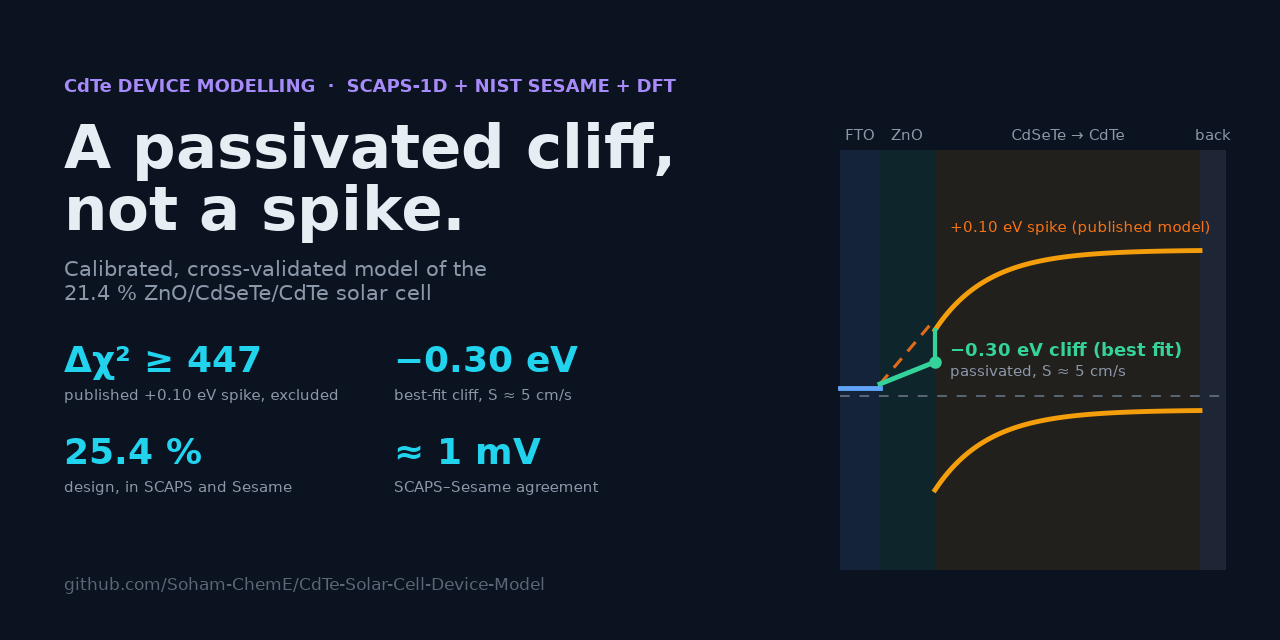
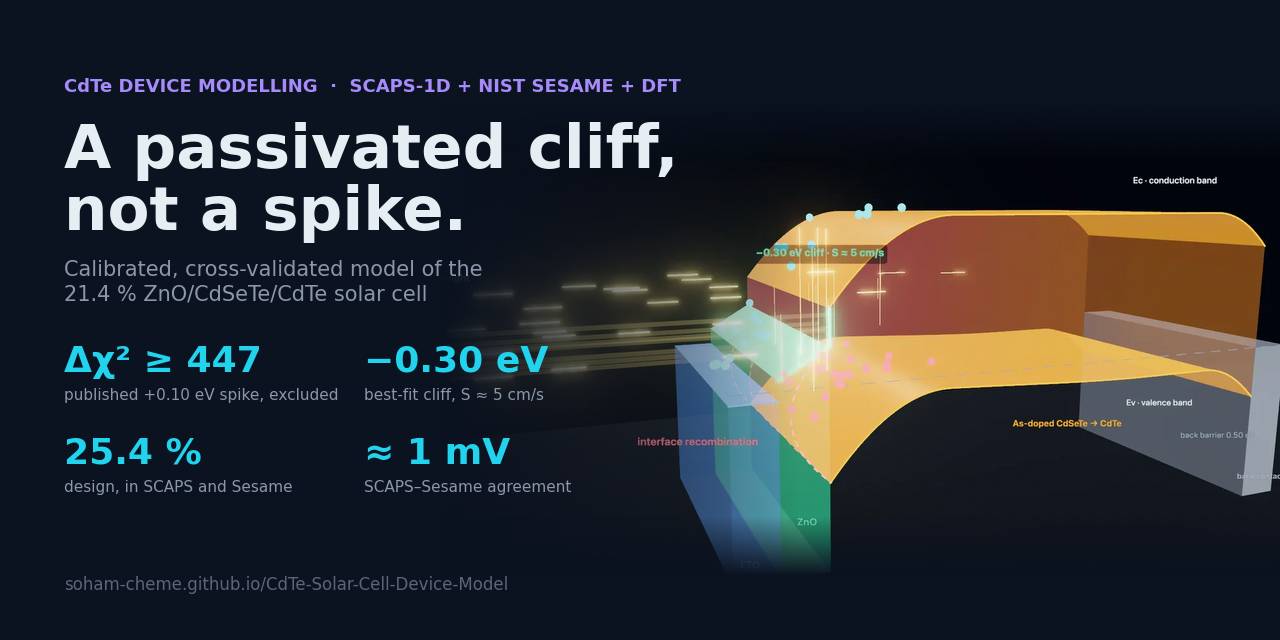
QA: hero renders for the no-WebGL path, both-theme screenshots at 1440 and 375 px, static-path checks; social preview with the new hero
docs/page_qa.py renders assets/hero_dark.webp and hero_light.webp, writes the
screenshots and qa.json to docs/qa/ (no console errors, no failed requests, no
horizontal overflow in either theme or width) and checks the reduced-motion and
software-renderer paths. build_assets.py places the hero render in the social
preview.

diff --git a/docs/page_qa.py b/docs/page_qa.py
@@ -1,0 +1,174 @@
+#!/usr/bin/env python3
+"""Renders and QA for the live page (Playwright for Python, headless Chromium).
+
+  python docs/page_qa.py [--hero] [--qa] [--static] [--lighthouse]
+
+  --hero        assets/hero_dark.webp and assets/hero_light.webp: the hero canvas alone at its final keyframe (the cliff), the
+                static image shown when WebGL is missing or software-rendered; docs/build_assets.py embeds the dark one in
+                the social preview
+  --qa          screenshots in both themes at 1440 px (hero at three scroll positions and every body scene) and 375 px (hero and
+                three scenes) into qa/<theme>/, plus console errors, failed requests and horizontal overflow, to qa/qa.json
+  --static      the reduced-motion path in both themes: every scene must show its static figure (F1-F7), to qa/<theme>/
+  --lighthouse  desktop Lighthouse run (needs the lighthouse CLI on PATH), report to qa/lighthouse.report.{html,json}
+
+Serves docs/ on a local port and loads it with software WebGL and window.__forceGL set, so the live scenes render rather
+than the static path (frame timing is therefore not representative). Port of page-qa.mjs / page_qa.py in the sibling
+project pages."""
+from __future__ import annotations
+
+import argparse
+import http.server
+import json
+import shutil
+import socketserver
+import subprocess
+import threading
+import time
+from functools import partial
+from pathlib import Path
+
+ap = argparse.ArgumentParser()
+for f in ("--hero", "--qa", "--static", "--lighthouse"):
+    ap.add_argument(f, action="store_true")
+A = ap.parse_args()
+DOCS = Path(__file__).resolve().parent
+
+
+class Quiet(http.server.SimpleHTTPRequestHandler):
+    def log_message(self, *a):
+        pass
+
+    def end_headers(self):
+        self.send_header("cache-control", "no-cache")
+        super().end_headers()
+
+
+srv = socketserver.TCPServer(("127.0.0.1", 0), partial(Quiet, directory=str(DOCS)))
+PORT = srv.server_address[1]
+threading.Thread(target=srv.serve_forever, daemon=True).start()
+BASE = f"http://127.0.0.1:{PORT}/index.html"
+
+from playwright.sync_api import sync_playwright  # noqa: E402
+
+QA = DOCS / "qa"
+report = {"pages": {"index.html": {}}}
+SCENES = ["vocT", "cliff", "valley", "fluct", "zno", "design", "solvers", "znse"]
+
+
+def open_page(browser, theme, w, h, reduced=False, force=True):
+    ctx = browser.new_context(viewport={"width": w, "height": h}, device_scale_factor=2 if w < 500 else 1,
+                              reduced_motion="reduce" if reduced else "no-preference", color_scheme=theme)
+    ctx.add_init_script(("window.__forceGL = true; " if force else "") + f"try {{ localStorage.setItem('theme', '{theme}'); }} catch (e) {{}}")
+    page = ctx.new_page()
+    errors, failed = [], []
+    page.on("console", lambda m: errors.append(m.text) if m.type == "error" else None)
+    page.on("pageerror", lambda e: errors.append(str(e)))
+    page.on("requestfailed", lambda r: failed.append(r.url))
+    page.on("response", lambda r: failed.append(f"{r.status} {r.url}") if r.status >= 400 else None)
+    page.goto(BASE, wait_until="networkidle")
+    page.wait_for_function("() => window.SITE && window.SITE.ready")
+    time.sleep(2.0)
+    return ctx, page, errors, failed
+
+
+def hero_to(page, T):
+    page.evaluate("""T => { const tr = document.querySelector('.hero-track'); const y = (tr.offsetHeight - innerHeight) * T;
+      if (window.SITE.lenis) window.SITE.lenis.scrollTo(y, { immediate: true, force: true }); window.scrollTo(0, y); if (window.ScrollTrigger) ScrollTrigger.update(); }""", T)
+    time.sleep(3.0)
+
+
+def scene_to(page, name):
+    page.evaluate("""s => { const el = document.querySelector(s); const r = el.getBoundingClientRect(); const y = r.top + scrollY - (innerHeight - r.height) / 2;
+      if (window.SITE.lenis) window.SITE.lenis.scrollTo(y, { immediate: true, force: true }); window.scrollTo(0, y); if (window.ScrollTrigger) ScrollTrigger.update();
+      document.querySelectorAll('.reveal').forEach(e => e.classList.add('in')); }""", f'[data-viz="{name}"]')
+    time.sleep(1.0)
+    page.evaluate("() => window.__viz && window.__viz.force(1)")
+    time.sleep(2.6)
+
+
+with sync_playwright() as pw:
+    browser = pw.chromium.launch(args=["--use-gl=angle", "--use-angle=swiftshader", "--enable-unsafe-swiftshader", "--ignore-gpu-blocklist"])
+    if A.hero:
+        for theme in ("dark", "light"):
+            ctx, page, errors, _ = open_page(browser, theme, 1600, 900)
+            page.evaluate("""() => { if (window.SITE.heroTimeline) window.SITE.heroTimeline.scrollTrigger.kill(); window.SITE.hero.t = 1;
+              document.querySelectorAll('nav, .hero .copy, .hero .readout, .hero .shade, .phases, .hlegend, .cliffcall, .scrollhint, .stats').forEach(e => e.style.visibility = 'hidden'); }""")
+            time.sleep(9.0)
+            page.query_selector("#heroCanvas").screenshot(path=str(DOCS / "assets" / f"hero_{theme}.png"), timeout=180000)
+            print("hero", theme, "errors:", errors)
+            ctx.close()
+        for theme in ("dark", "light"):  # WebP keeps the bloom gradients without banding at a small size
+            try:
+                from PIL import Image
+                p = DOCS / "assets" / f"hero_{theme}.png"
+                Image.open(p).convert("RGB").resize((1280, 720), Image.LANCZOS).save(p.with_suffix(".webp"), quality=80, method=6)
+                p.unlink()
+            except Exception as e:  # noqa: BLE001
+                print("quantise skipped:", e)
+    if A.qa:
+        for theme in ("dark", "light"):
+            qd = QA / theme
+            qd.mkdir(parents=True, exist_ok=True)
+            ctx, page, errors, failed = open_page(browser, theme, 1440, 900)
+            for T in (0, .3, 1):
+                hero_to(page, T)
+                page.screenshot(path=str(qd / f"index-hero-t{int(T * 100):03d}.png"), timeout=180000)
+            for k, name in enumerate(SCENES, 1):
+                scene_to(page, name)
+                page.screenshot(path=str(qd / f"index-scene{k}-{name}.png"), timeout=180000)
+            over = page.evaluate("() => document.documentElement.scrollWidth - document.documentElement.clientWidth")
+            built = page.evaluate("() => window.__viz ? window.__viz.views.map(v => v.name + ':' + (v.builds || 0)) : []")
+            nbytes = page.evaluate("() => performance.getEntriesByType('resource').reduce((a, r) => a + (r.transferSize || r.encodedBodySize || 0), 0) + (performance.getEntriesByType('navigation')[0]?.transferSize || 0)")
+            ctx.close()
+            mctx, mpage, merr, mfail = open_page(browser, theme, 375, 812)
+            for T in (0, 1):
+                hero_to(mpage, T)
+                mpage.screenshot(path=str(qd / f"index-mobile-375-hero-t{int(T * 100):03d}.png"), timeout=180000)
+            for name in ("cliff", "fluct", "design"):
+                scene_to(mpage, name)
+                mpage.screenshot(path=str(qd / f"index-mobile-375-{name}.png"), timeout=180000)
+            mover = mpage.evaluate("() => document.documentElement.scrollWidth - document.documentElement.clientWidth")
+            mctx.close()
+            report["pages"]["index.html"][theme] = {"errors": errors, "failed": failed, "overflowPx1440": over, "scenesBuilt": built,
+                                                    "transferBytes": nbytes, "mobileErrors": merr, "mobileFailed": mfail, "overflowPx375": mover}
+            print("qa", theme, json.dumps(report["pages"]["index.html"][theme]))
+    if A.static:
+        for theme in ("dark", "light"):
+            qd = QA / theme
+            qd.mkdir(parents=True, exist_ok=True)
+            ctx, page, errors, failed = open_page(browser, theme, 1440, 900, reduced=True)
+            page.screenshot(path=str(qd / "index-reduced-motion-hero.png"), timeout=180000)
+            imgs = page.evaluate("() => [...document.querySelectorAll('.viz img.fallback')].map(i => ({ src: (i.getAttribute('src') || '').split('/').pop(), visible: getComputedStyle(i).opacity }))")
+            page.evaluate("() => document.querySelector('[data-viz=\"design\"]').scrollIntoView({ block: 'center' })")
+            time.sleep(1.5)
+            page.screenshot(path=str(qd / "index-reduced-motion-design.png"), timeout=180000)
+            ctx.close()
+            sctx, spage, serr, sfail = open_page(browser, theme, 1440, 900, force=False)  # software GL without the QA override: static path
+            soft = spage.evaluate("() => ({ softGL: window.SITE.softGL, hero: document.querySelector('.hero').className, img: document.querySelector('.hero .fallback').getAttribute('src') })")
+            spage.screenshot(path=str(qd / "index-software-gl-hero.png"), timeout=180000)
+            sctx.close()
+            report["pages"]["index.html"].setdefault(theme, {}).update({"reducedMotionFigures": imgs, "reducedErrors": errors, "reducedFailed": failed,
+                                                                        "softwareGL": soft, "softErrors": serr, "softFailed": sfail})
+            print("static", theme, json.dumps(imgs), json.dumps(soft), serr, sfail)
+    if A.lighthouse:
+        lh = shutil.which("lighthouse")
+        if not lh:
+            print("lighthouse CLI not on PATH; skipped")
+        else:
+            out = QA / "lighthouse"
+            subprocess.run([lh, BASE, "--preset=desktop", "--output=html", "--output=json", f"--output-path={out}", "--quiet",
+                            "--chrome-flags=--headless=new --disable-gpu"], check=False)
+    browser.close()
+
+if A.qa or A.static:
+    QA.mkdir(exist_ok=True)
+    try:  # store the screenshots as WebP
+        from PIL import Image
+        for p in QA.glob("*/*.png"):
+            Image.open(p).convert("RGB").save(p.with_suffix(".webp"), quality=78, method=6)
+            p.unlink()
+    except Exception as e:  # noqa: BLE001
+        print("webp conversion skipped:", e)
+    (QA / "qa.json").write_text(json.dumps(report, indent=1, ensure_ascii=False))
+    print("wrote", QA / "qa.json")
+srv.shutdown()

diff --git a/docs/build_assets.py b/docs/build_assets.py
@@ -7,10 +7,10 @@ Writes
   docs/assets/data.js            window.CDTE = {...}: hero profile, Voc(T) curves (F1), fluctuation gate (F3), ZnO paradox
                                  (F4), design staircase (F5), solver cross-check (F6), ZnSe collapse map (F7)
   docs/assets/cliff.json         the identifiability map and fine scan (F2), loaded lazily by "The cliff, live" and the valley
-  docs/assets/social-preview.png 1280x640 card; embeds docs/assets/hero_dark.webp when it exists (rendered by tools/page_qa.py)
+  docs/assets/social-preview.png 1280x640 card; embeds docs/assets/hero_dark.webp when it exists (rendered by page_qa.py)
 
 Run from anywhere:   python docs/build_assets.py          (numpy, scipy, matplotlib)
-Renders and QA:      python docs/tools/page_qa.py --hero --qa   (Playwright for Python; see that file), then re-run this
+Renders and QA:      python docs/page_qa.py --hero --qa   (Playwright for Python; see that file), then re-run this
                      script so the social preview picks up the new hero render.
 """
 import csv
@@ -218,7 +218,7 @@ BG, INK, MUT, CY, GR, OR = "#0b1220", "#e6edf3", "#8b98a9", "#22d3ee", "#34d399"
 fig = plt.figure(figsize=(12.8, 6.4), dpi=100, facecolor=BG)
 ax = fig.add_axes([0, 0, 1, 1]); ax.set_xlim(0, 1280); ax.set_ylim(640, 0); ax.axis("off"); ax.set_facecolor(BG)
 render = OUT / "hero_dark.webp"
-if render.exists():  # the 3D hero, captured by docs/tools/page_qa.py --hero, on the right half with a fade into the text side
+if render.exists():  # the 3D hero, captured by docs/page_qa.py --hero, on the right half with a fade into the text side
     from PIL import Image
     img = np.asarray(Image.open(render).convert("RGB")) / 255.0
     h, w = img.shape[:2]

diff --git a/docs/qa/README.md b/docs/qa/README.md
@@ -1,0 +1,18 @@
+# QA for the live page
+
+Run with `docs/page_qa.py --hero --qa --static` (Playwright for Python, headless Chromium). The page is served from
+`docs/` as GitHub Pages serves it and loaded with software WebGL and `window.__forceGL`, so the live scenes render (frame
+timing is therefore not representative). Screenshots are stored as WebP.
+
+| Theme | Console errors (1440) | Failed requests (1440) | Horizontal overflow (1440) | Console errors (375) | Failed requests (375) | Horizontal overflow (375) | Transfer (bytes) |
+|---|---|---|---|---|---|---|---|
+| dark | 0 | 0 | 0 px | 0 | 0 | 0 px | 614,643 |
+| light | 0 | 0 | 0 px | 0 | 0 | 0 px | 614,643 |
+
+Every scene was built lazily and, where the run scrolled far past it, disposed and rebuilt (`scenesBuilt` in `qa.json`).
+Static path: with reduced motion every body scene shows its figure (F1-F7); with a software renderer the hero shows
+`assets/hero_<theme>.webp` and three.js is not loaded. Both were checked in both themes with no console errors.
+
+Files in `dark/` and `light/`: `index-hero-t000/030/100` (hero at the start, mid-morph and the end of the track),
+`index-scene1..8-<name>` (every body scene at 1440 px), `index-mobile-375-*` (375 px hero and three scenes),
+`index-reduced-motion-*` and `index-software-gl-hero`.

diff --git a/docs/DESIGN.md b/docs/DESIGN.md
@@ -45,7 +45,7 @@ more than two and a half viewports away (`viz.js`); the shared renderer caps the
 renders only when something changed. Narrow placeholders widen the camera's field of view so the designed horizontal
 extent stays in frame.
 
-## QA (`docs/tools/page_qa.py`)
+## QA (`docs/page_qa.py`)
 
 Playwright for Python, headless Chromium with software WebGL and `window.__forceGL` (frame timing not representative):
 `--hero` renders `assets/hero_dark.webp` and `hero_light.webp` (the no-WebGL hero), `--qa` writes both-theme screenshots at
